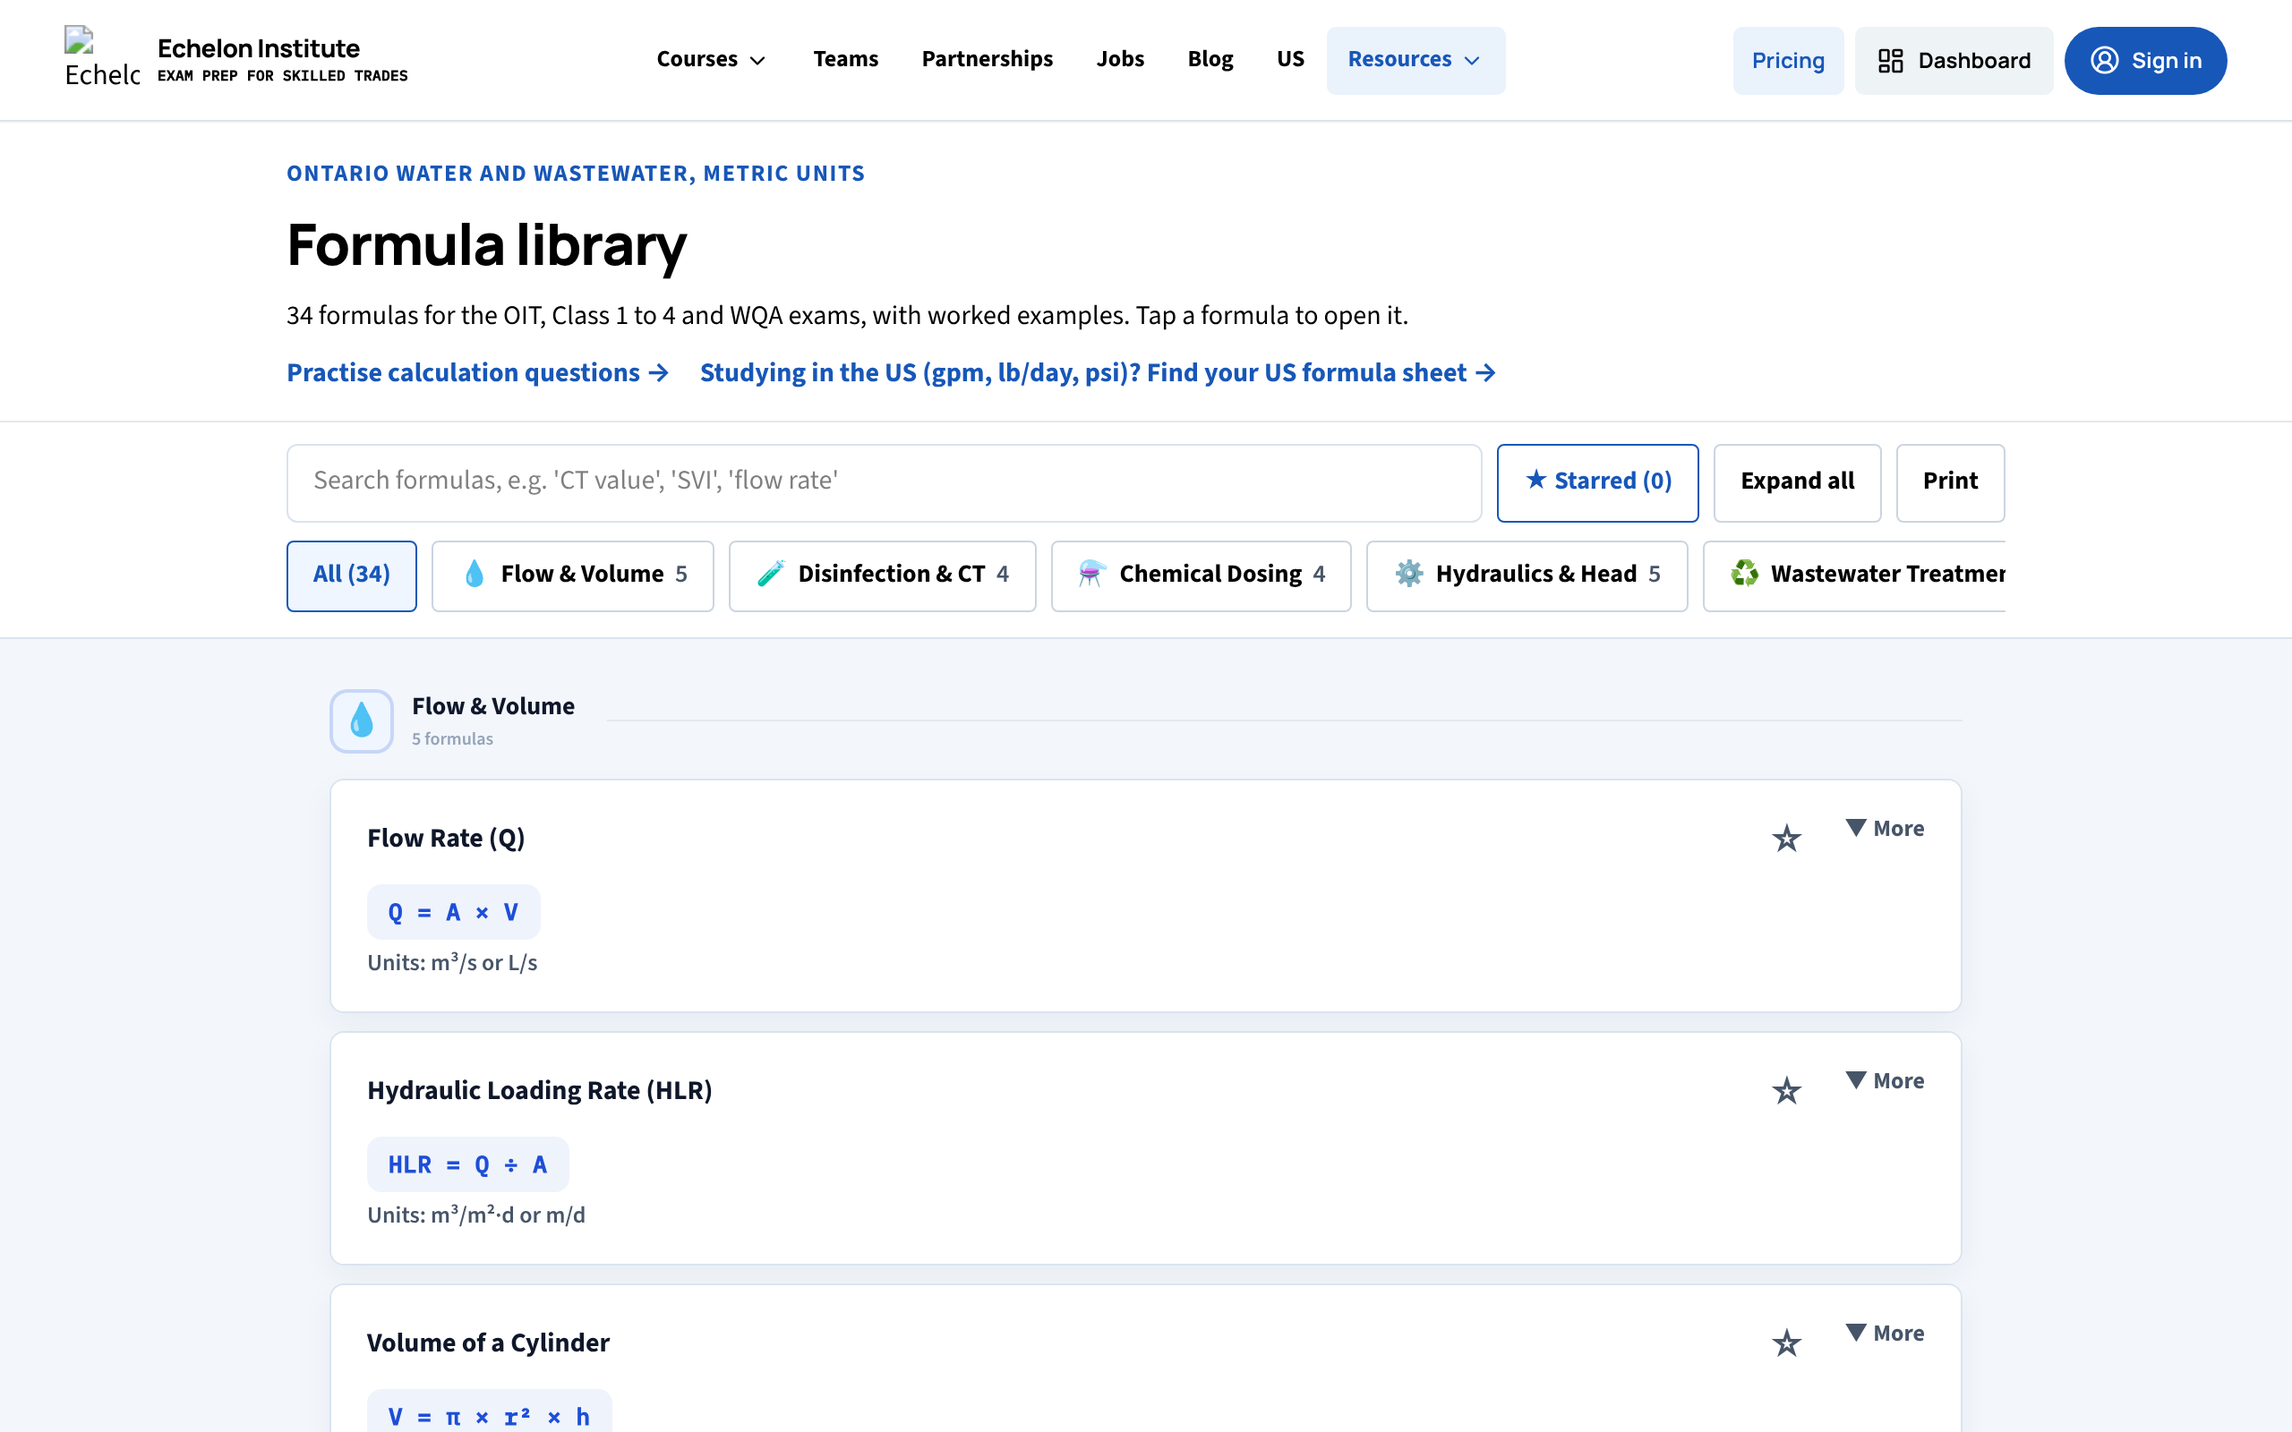
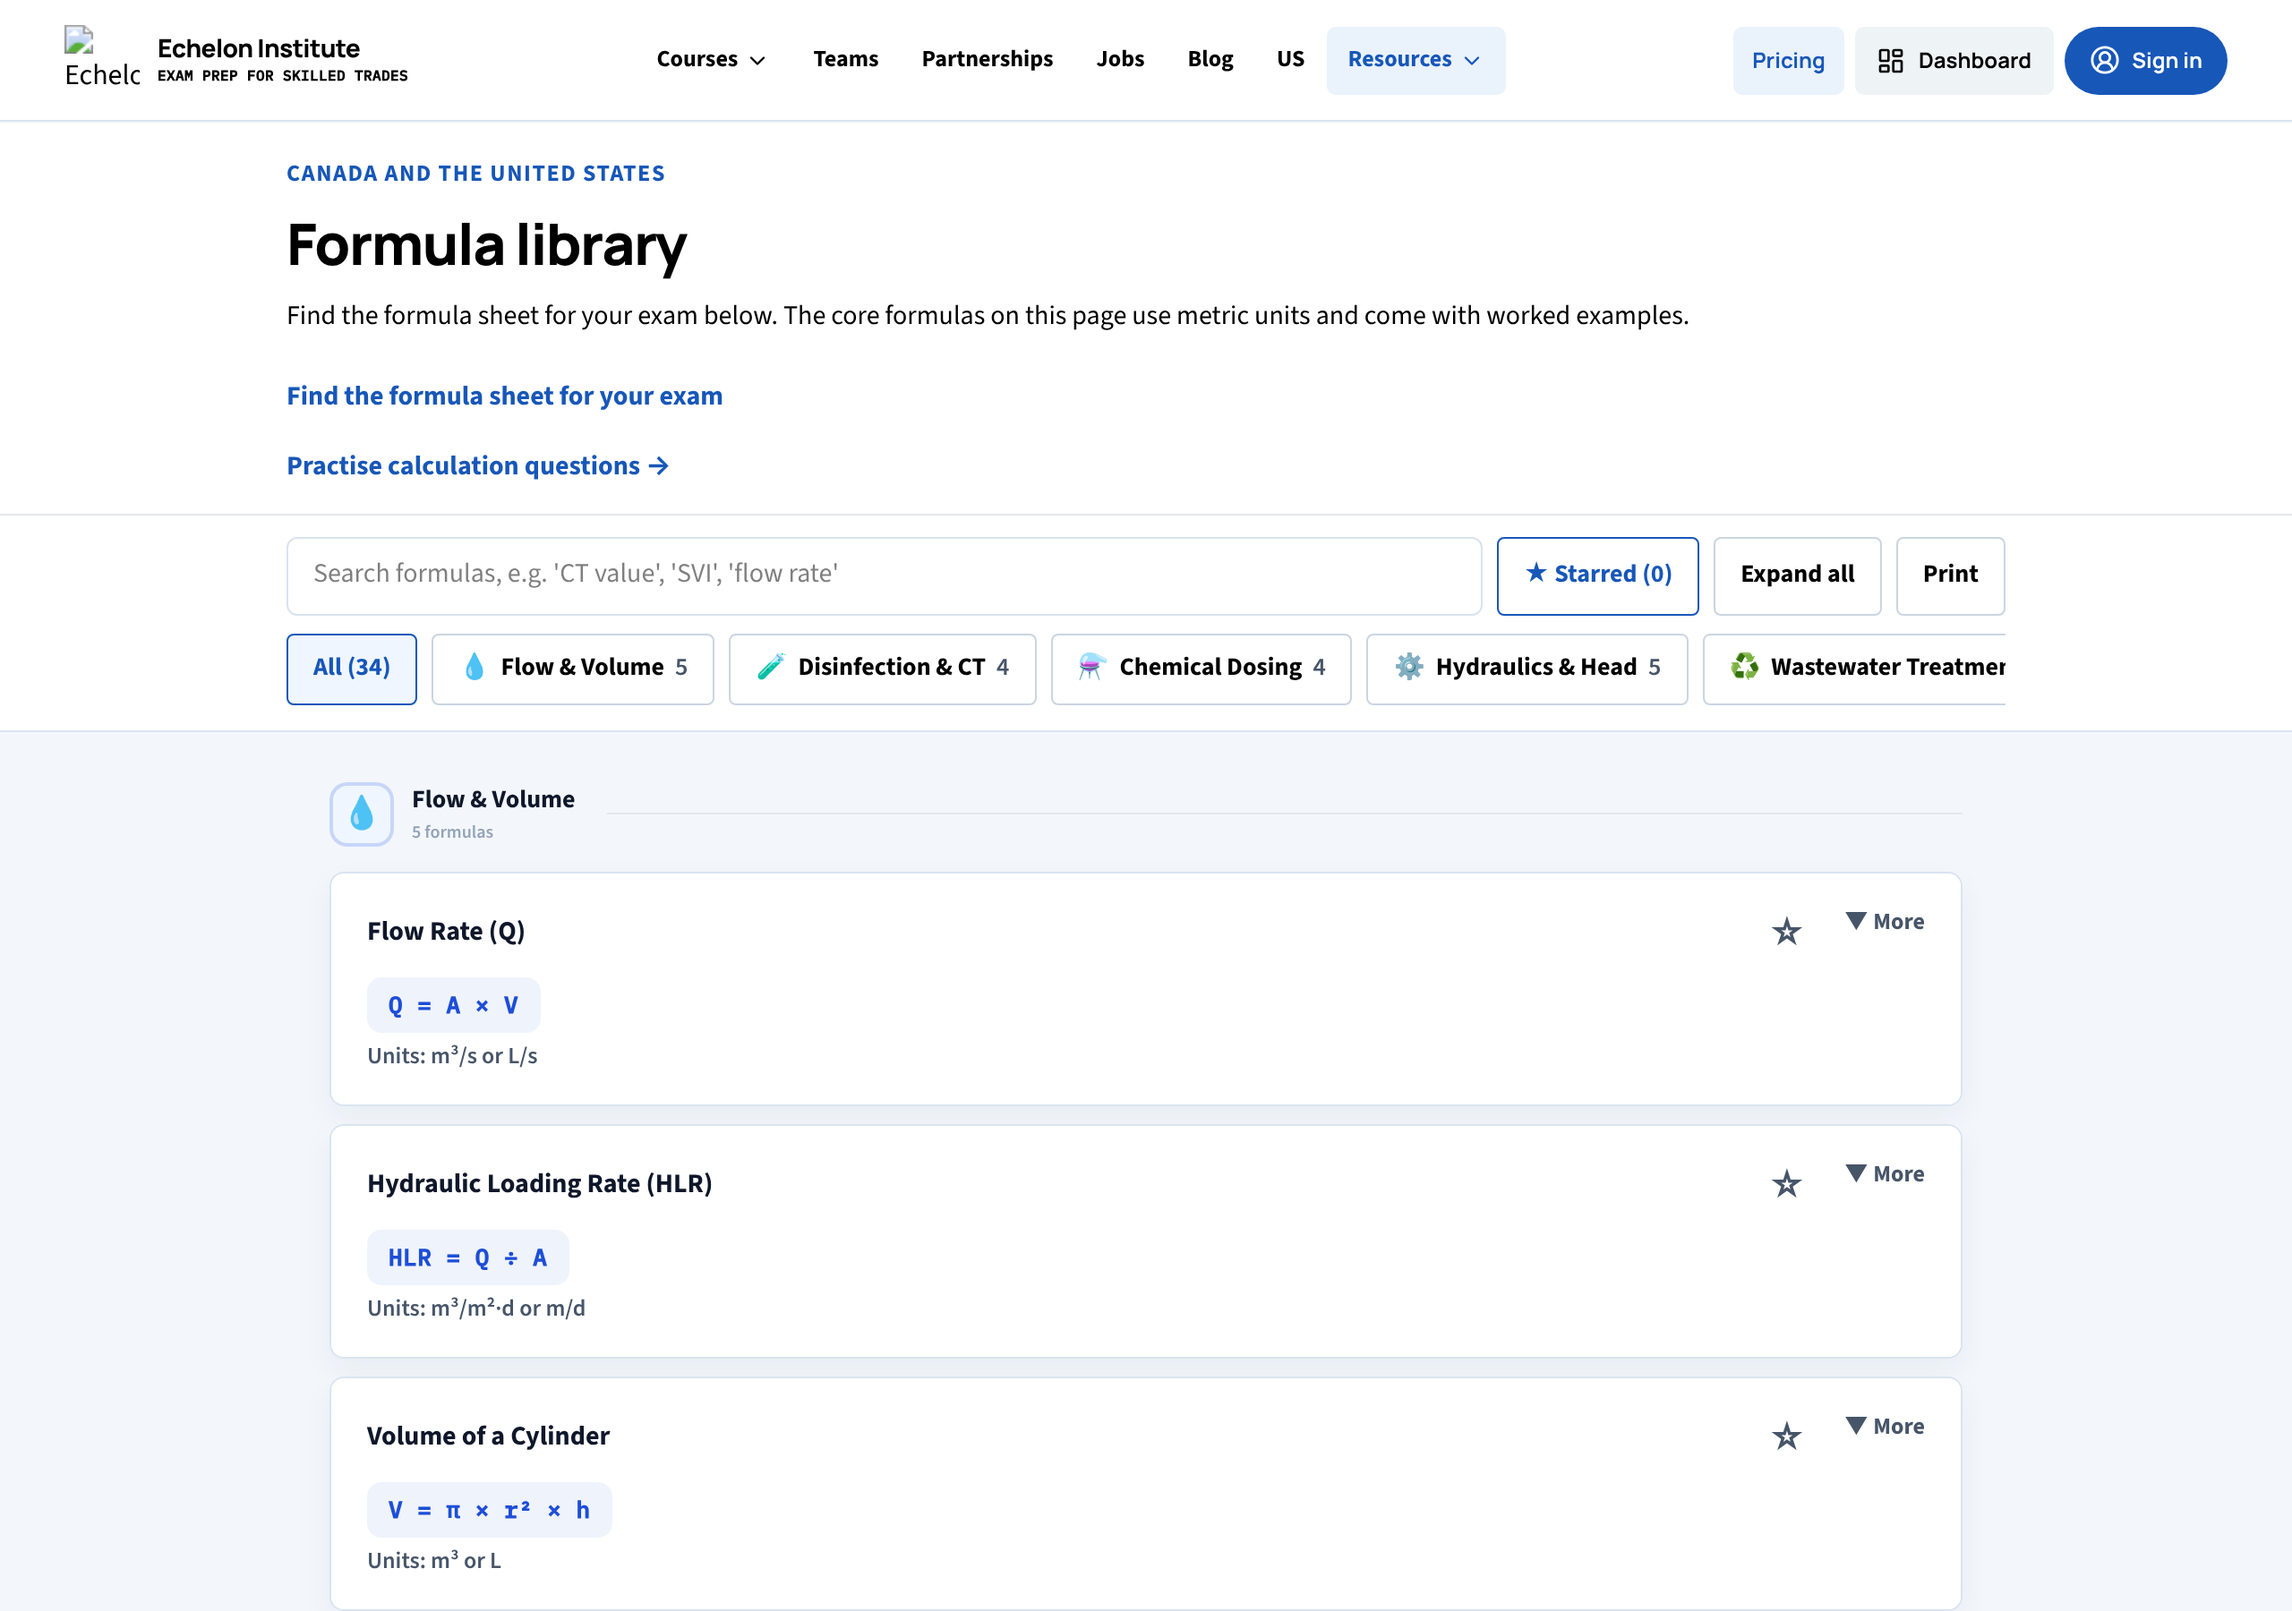
Formula library: cover Canada and the US, not just Ontario
- Header now says "Canada and the United States" and offers a picker for
  every region's formula sheet (Ontario, western Canada, US), built from
  the course registry. Sheets that serve more than one course say so.
- Page title and description no longer say Ontario only. The Ontario
  regulations category keeps its Ontario label because that content is.

Claude-Session: https://claude.ai/code/session_017QhnptZ6cKCKCrWwVkcLyq

diff --git a/client/src/pages/Formulas.tsx b/client/src/pages/Formulas.tsx
@@ -7,6 +7,7 @@ import { useEffect, useState } from "react";
 import { Link } from "wouter";
 import { usePageMeta } from "@/hooks/usePageMeta";
 import SiteNav from "@/components/SiteNav";
+import { getAllCourses } from "@shared/courseRegistry";
 
 // ── TYPES ────────────────────────────────────────────────────────────────────
 interface Formula {
@@ -559,6 +560,29 @@ const CATEGORIES: FormulaCategory[] = [
 
 const STARRED_KEY = "echelon_formula_stars_v1";
 
+/** Every course formula sheet, grouped by region, built from the course registry so new sheets show up here. */
+const SHEET_GROUPS: { label: string; note: string; families: string[] }[] = [
+  { label: "Ontario", note: "metric units", families: ["ontario"] },
+  { label: "Western Canada (BC, AB, SK, MB)", note: "metric units", families: ["western"] },
+  { label: "United States", note: "US customary units: gpm, lb/day, psi", families: ["us-wpi", "us-state"] },
+];
+function formulaSheetsFor(families: string[]) {
+  const sheets = new Map<string, { label: string; tracks: Set<string> }>();
+  for (const c of getAllCourses()) {
+    if (!c.isActive || !c.formulaPath || !families.includes(c.examFamily)) continue;
+    const entry = sheets.get(c.formulaPath) ?? { label: c.displayName, tracks: new Set<string>() };
+    entry.tracks.add(c.track ?? "");
+    sheets.set(c.formulaPath, entry);
+  }
+  // One sheet can serve several courses (for example treatment and distribution); say so in the label.
+  return Array.from(sheets, ([href, { label, tracks }]) => ({
+    href,
+    label: label
+      + (tracks.has("water-distribution") ? " + Distribution" : "")
+      + (tracks.has("wastewater-collection") ? " + Collection" : ""),
+  }));
+}
+
 // ── FORMULA CARD ─────────────────────────────────────────────────────────────
 function FormulaCard({ formula, color, bg }: { formula: Formula; color: string; bg: string }) {
   const [expanded, setExpanded] = useState(false);
@@ -720,8 +744,8 @@ function FormulaCard({ formula, color, bg }: { formula: Formula; color: string; 
 // ── MAIN PAGE ────────────────────────────────────────────────────────────────
 export default function Formulas() {
   usePageMeta({
-    title: "Ontario Operator Exam Formula Sheet",
-    description: `${CATEGORIES.reduce((sum, c) => sum + c.formulas.length, 0)} Ontario water and wastewater operator exam formulas with worked examples and exam tips. CT values, SVI, chlorine dose, flow calculations, and more.`,
+    title: "Operator Exam Formula Library",
+    description: `${CATEGORIES.reduce((sum, c) => sum + c.formulas.length, 0)} core water and wastewater operator exam formulas (metric units) with worked examples and exam tips, plus links to the Ontario, western Canada and US formula sheets.`,
     path: "/formulas",
     noindex: true
   });
@@ -781,14 +805,28 @@ export default function Formulas() {
       {/* ── COMPACT HEADER ── */}
       <header className="formulas-intro" style={{ background: "#fff", borderBottom: "1px solid #E5E7EB", padding: "20px 24px 14px" }}>
         <div style={{ maxWidth: 960, margin: "0 auto" }}>
-          <p style={{ margin: 0, fontSize: 13, fontWeight: 700, color: "#1757B8", letterSpacing: "0.06em", textTransform: "uppercase" }}>Ontario water and wastewater, metric units</p>
+          <p style={{ margin: 0, fontSize: 13, fontWeight: 700, color: "#1757B8", letterSpacing: "0.06em", textTransform: "uppercase" }}>Canada and the United States</p>
           <h1 style={{ fontSize: "clamp(24px, 4vw, 32px)", fontWeight: 800, color: "#000", margin: "4px 0 6px" }}>Formula library</h1>
           <p style={{ margin: 0, fontSize: 15, color: "#000", lineHeight: 1.5 }}>
-            {totalFormulas} formulas for the OIT, Class 1 to 4 and WQA exams, with worked examples. Tap a formula to open it.
+            Find the formula sheet for your exam below. The core formulas on this page use metric units and come with worked examples.
           </p>
-          <p style={{ margin: "10px 0 0", fontSize: 15, display: "flex", gap: 16, flexWrap: "wrap" }}>
+          <details className="formula-sheet-picker" style={{ marginTop: 12 }}>
+            <summary style={{ cursor: "pointer", fontWeight: 700, fontSize: 15, color: "#1757B8", minHeight: 44, display: "flex", alignItems: "center" }}>Find the formula sheet for your exam</summary>
+            <div style={{ display: "grid", gap: 14, padding: "6px 0 10px" }}>
+              {SHEET_GROUPS.map(group => (
+                <div key={group.label}>
+                  <p style={{ margin: "0 0 6px", fontSize: 14, color: "#000" }}><strong>{group.label}</strong> · {group.note}</p>
+                  <div style={{ display: "flex", flexWrap: "wrap", gap: 8 }}>
+                    {formulaSheetsFor(group.families).map(sheet => (
+                      <Link key={sheet.href} href={sheet.href} style={{ display: "inline-flex", alignItems: "center", minHeight: 40, padding: "0 12px", borderRadius: 999, border: "1.5px solid #CBD5E1", background: "#fff", color: "#000", fontWeight: 600, fontSize: 14, textDecoration: "none" }}>{sheet.label}</Link>
+                    ))}
+                  </div>
+                </div>
+              ))}
+            </div>
+          </details>
+          <p style={{ margin: "6px 0 0", fontSize: 15 }}>
             <Link href="/math-practice" style={{ color: "#1757B8", fontWeight: 700 }}>Practise calculation questions →</Link>
-            <Link href="/us" style={{ color: "#1757B8", fontWeight: 700 }}>Studying in the US (gpm, lb/day, psi)? Find your US formula sheet →</Link>
           </p>
         </div>
       </header>
